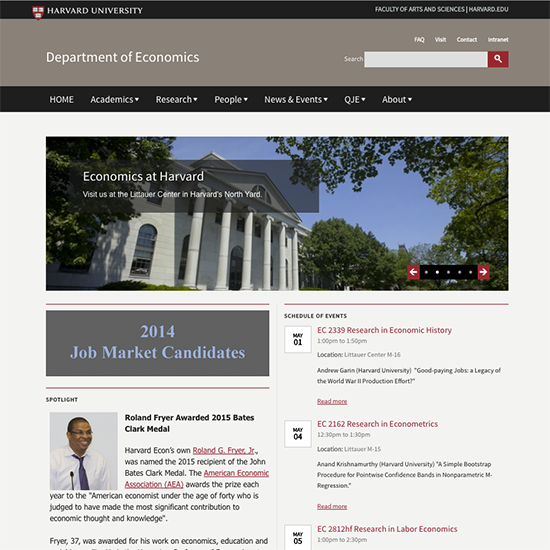
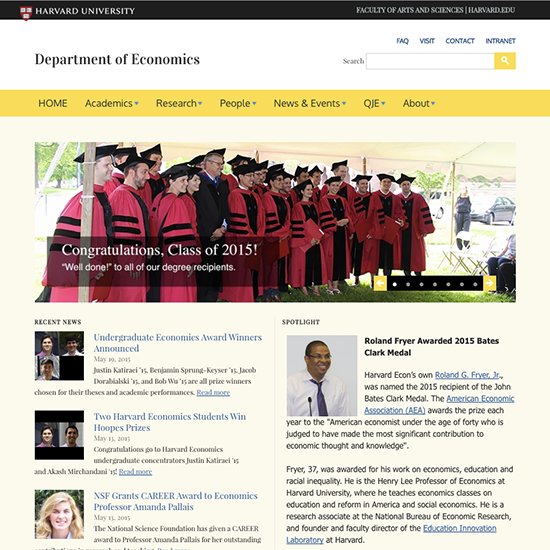
lemon sand flavor css updates. #7222

diff --git a/openscholar/themes/hwpi_classic/flavors/lemon_sand/responsive.lemon_sand.css b/openscholar/themes/hwpi_classic/flavors/lemon_sand/responsive.lemon_sand.css
@@ -6,7 +6,7 @@ background-color: #FFF;
 }
 
 .region-header-third ul.nice-menu a {
-color: #FFF !important;
+color: #222 !important;
 }
 
 
@@ -17,7 +17,7 @@ border-top: 1px solid #f4f4f4 !important;
 
 .region-header-third #block-os-secondary-menu.opened, 
 .region-header-third .os-custom-menu.opened {
-background-color: #8C8179;
+background-color: #FFF;
 }
 
 
@@ -34,12 +34,12 @@ border-bottom: none;
 
 
 #menu-bar ul.nice-menu li {
-background-color: #1E1E1E !important;
+background-color: #ffdb6d !important;
 color:#FFF !important;
 }
 
 #menu-bar #block-os-primary-menu a {
-color: #FFF !important;
+color: #222 !important;
 }
 
 #menu-bar #block-os-primary-menu li {
@@ -53,16 +53,16 @@ background-position: 0 -493px;
 
 
 .link-count-mobi-util a {
-background-position: -52px -500px;
+background-position: -52px -530px;
 }
 
 .link-count-mobi-util a {
-    background-color: #8C8179;
+    background-color: #FFF;
 }
 
 
 .link-count-mobi-main a {
-    background-color:#1E1E1E;
+    background-color:#ffdb6d;
 }
 
 .link-count-mobi-main a {
@@ -70,7 +70,7 @@ background-position: 0 -493px;
 }
 
 .link-count-mobi-search a {
-    background-color: #A51C30;
+    background-color: #ffdb6d;
 }
 
 .mobi-util a {

diff --git a/openscholar/themes/hwpi_classic/flavors/lemon_sand/lemon_sand.css b/openscholar/themes/hwpi_classic/flavors/lemon_sand/lemon_sand.css
@@ -46,7 +46,14 @@ h2.block-title,
 .section-nav a:link, 
 .section-nav a:visited,
 .region-header-third ul.nice-menu a,
-#menu-bar ul.nice-menu a {
+#menu-bar ul.nice-menu a,
+#columns .accordion ul.nice-menu li a, 
+#columns .os-custom-menu ul.nice-menu li a, 
+#columns #block-os-primary-menu ul.nice-menu li a,
+#columns #block-os-secondary-menu ul.nice-menu li a, 
+#columns .os-custom-menu ul.menu li a, 
+#columns #block-os-primary-menu ul.menu li a,
+#columns #block-os-secondary-menu ul.menu li a {
 	font-family: 'Oxygen', helvetica !important;
 }
 
@@ -61,7 +68,7 @@ h2.block-title,
   background: #ffdb6d;
 }
 
-
+#footer,
 #header {
   background: #FFF;
 }
@@ -97,11 +104,6 @@ h2.block-title,
 
 a.rslides_nav {
   background-color: #ffdb6d;
-}
-
-
-#footer {
-  background: #FFF;
 }
 
 
